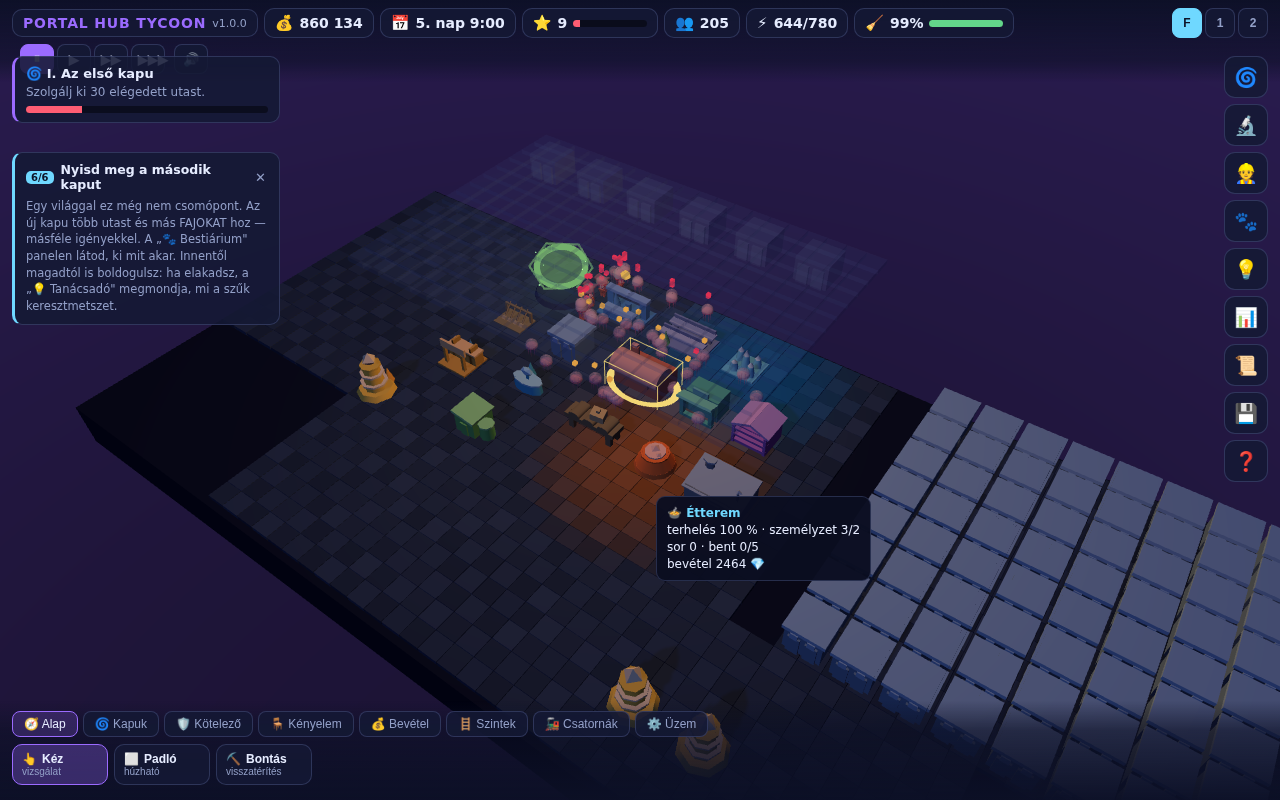
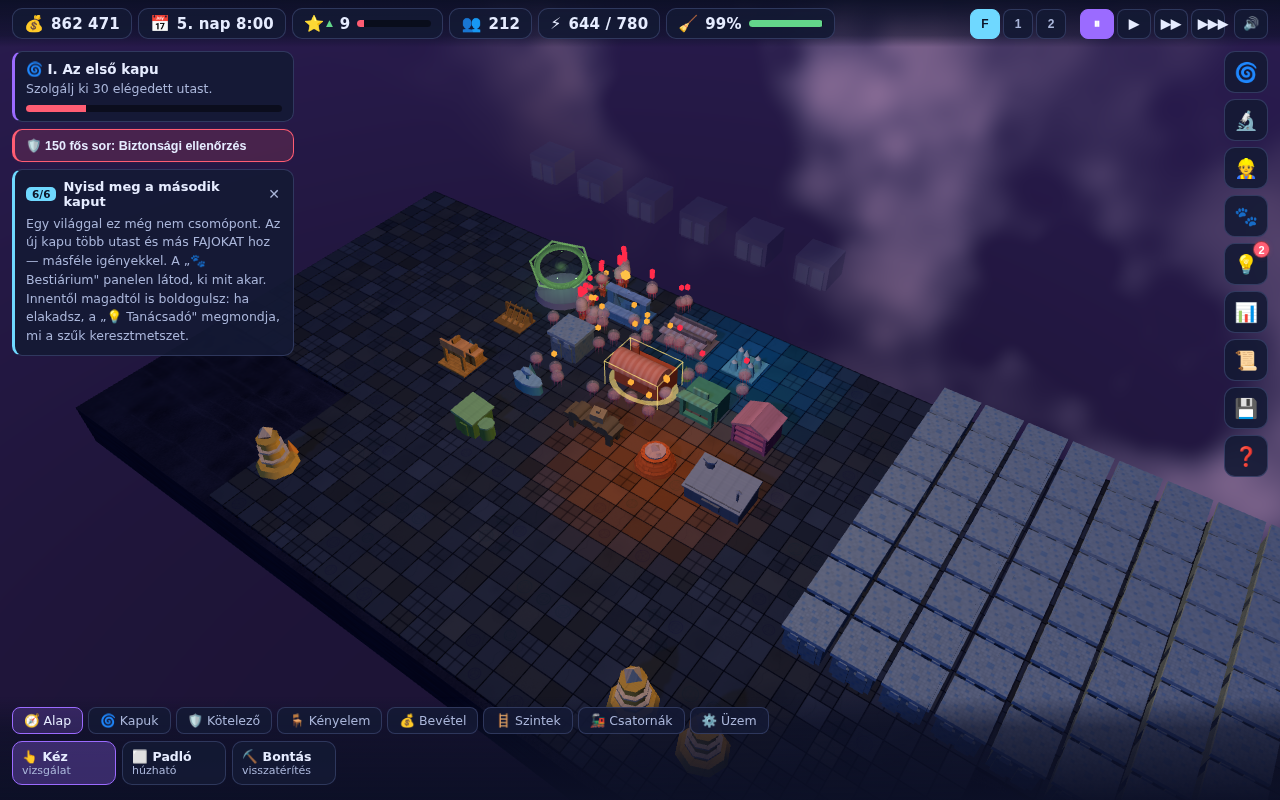
v1.1 — nagyobb pálya, textúrák, SFX- és UI-hangolás, QA-kör
Három párhuzamos sáv, egy kör, diszjunkt fájlkészleten. MIND A HÉT KAPU
EGYÜTT ZÖLD (det 11 · mértan 6 · hang 6 · böngésző 9 · látvány 6 · textúra 8
· kiadás 7), a `VERZIO` 1.0.0 → 1.1.0.

── TEXTÚRÁK ──────────────────────────────────────────────────────────────
13 procedurális textúra, canvasból, NULLA képfájl — a `dist/` bármikor
másolható marad. A padló világ-uv-t kap (`onBeforeCompile` + `instanceMatrix`),
így 8×8 KÜLÖNBÖZŐ kőlap ismétlődik; a doboz saját uv-jével mind a 6 912 cella
ugyanaz az egy csempe lett volna.

    padló mintázottsága   szomszédos képpontok eltérése 1,084 → 2,560 (2,33×)
    épületek közelről     csempe 4,02× · deszka 5,62× · fém 8,69×
    uv-fedettség          46/46 épület- és 20/20 lény-mesh érvényes
    rajzolási hívás       +32 azonos típusú textúrázott épület: 18 → 18
    készlet               13 db, 1,93 M képpont · előállítás 109 ms
    képkocka-ár           +14 % (keret: +45 %)

── HANG ──────────────────────────────────────────────────────────────────
    sztereó korreláció              1,000 (MONÓ) → 0,642
    levágott minta 24 hangnál       40 → 0
    háttér lehúzása riasztás alatt  0,3 dB → 10,2 dB
    ugyanaz a hang kétszer          0,00 % → 0,6-0,8 % eltérés

── FELÜLET: QA-KÖR ───────────────────────────────────────────────────────
3 kritikus + 4 súlyos hiba, mind javítva. A legfontosabb: EGYETLEN kattintás
egy üres padlóra megfagyasztotta a partit (hiányzó import → ReferenceError a
[…]

diff --git a/portal/src/mag/config.js b/portal/src/mag/config.js
@@ -11,7 +11,7 @@
 // az AoC-nál már megégettük magunkat azzal, hogy két helyen állt verziószám.
 
 /** A játék verziója. EZ az igazság, nem a package.json. */
-export const VERZIO = '1.0.0';
+export const VERZIO = '1.1.0';
 export const JATEK_NEV = 'PORTAL HUB TYCOON';
 
 // ── IDŐ ───────────────────────────────────────────────────────────────────

diff --git a/portal/ATADO.md b/portal/ATADO.md
@@ -1,0 +1,231 @@
+# ÁTADÓ — PORTAL HUB TYCOON · v1.1
+
+> **Ez az egyetlen fájl, amit el kell olvasnod, ha most kapcsolódsz be.**
+> A 0. és az 5. pont a lényeg. A többi akkor kell, ha hozzá is nyúlsz.
+
+| | |
+|---|---|
+| **Verzió** | `portal/src/mag/config.js` → `VERZIO` (a `package.json` verziója NEM ez) |
+| **Ág** | `claude/portal-hub-tycoon-doo7mq` |
+| **Mappa** | `portal/` — **önálló alprojekt**, saját `index.html`-lel és `vite.config.js`-szel |
+| **Kirakás** | `skynet.lospolo.hu/portal` — lásd [`KIRAKAS.md`](KIRAKAS.md) |
+| **Játék** | `npm run portal:dev` → http://localhost:5274 |
+
+⚠ **A repóban KÉT játék van.** A gyökér `src/` az AGE OF THE CRYSTALS-é, a
+`portal/` ezé. Diszjunkt fájlkészleten élnek — ha az egyiken dolgozol, a
+másikhoz ne nyúlj. A gyökér `CLAUDE.md` erről szól.
+
+---
+
+## 0. Hol tart a projekt
+
+**Kész, játszható, mérve.** Böngészőben futó 3D tycoon: dimenziókapu-állomást
+igazgatsz, ahová tíz faj érkezik, mindegyik más igénnyel és fogyó türelemmel.
+Hét fejezetes történet két visszafordíthatatlan döntéssel, utána végtelen mód
+növekvő nehézségű korszakokkal.
+
+Az ív: v0.1 motor-mag → v0.2 mentés → v0.3 emeletek → v0.4 csatornák →
+v0.5 végtelen mód → v0.6 kosz → v0.7 tanácsadó → v0.8 bevezető →
+v0.9 kiadás-ellenőrző → **v1.0** (mind a hat kapu együtt zöld) →
+**v1.1** (nagyobb pálya, textúrák, SFX-hangolás, UI-hangolás + QA-kör).
+
+### Amit a v1.1 hozott
+
+| sáv | mi |
+|---|---|
+| **pálya** | rács 64×48 → **96×72**, kezdő csarnok 22×16 → **30×22** |
+| **textúrák** | 13 procedurális textúra, canvasból, **nulla képfájl** |
+| **hang** | monóból sztereó, torlódás-védelem, ducking, ismétlődés-variáció |
+| **felület** | QA-kör: **3 kritikus + 4 súlyos** hiba javítva |
+| **kirakás** | `npm run portal:csomag` + [`KIRAKAS.md`](KIRAKAS.md) |
+
+---
+
+## 1. A LEGFONTOSABB SZABÁLY
+
+**A `src/sim/` alatt a determinizmus mindent felülír.** Nincs `Math.random`,
+`Date.now`, `performance.now`, nincs `Math.sin/cos/pow/exp/log/hypot`, nincs
+`three`/DOM, és nincs sorrendfüggő objektum-iteráció. Az `npm run portal:det`
+1. vizsgálata ezt statikusan is ellenőrzi — **ha bukik, ne a szondát írd át.**
+
+Ebből következik minden más: a mentés = **seed + parancsnapló**, a betöltés
+= újrajátszás, és ezért lesz bitre ugyanaz.
+
+**A render, a felület és a hang SOSEM ír a simbe.** Ha hatni akarnak a
+világra, parancsot adnak: `sim.parancs({ fajta: 'menet', … })`.
+
+⚠ A `Math.random` a **render/hang oldalon MEGENGEDETT** — a hang-sáv él is
+vele a hangvariációhoz. Csak a `sim/` és a `mag/` alatt tilos.
+
+---
+
+## 2. A HÉT KAPU
+
+```bash
+npm run portal:szonda      # mind egyben
+```
+
+| parancs | mit mér | vizsgálat |
+|---|---|---|
+| `portal:det` | determinizmus, működés, gazdaság, végigjátszás | 11 |
+| `portal:mertan` | 23 épülettípus, 23 különböző sziluett | 6 |
+| `portal:hang` | katalógus, jelszint, **sztereó/torlódás/dinamika** | 6 |
+| `portal:bongeszo` | elindul-e, működik-e, ment-e bitre azonosan | 9 |
+| `portal:latvany` | napszak, szellemszint, részecskekeret | 6 |
+| `portal:textura` | mintázottság, uv, textúra-készlet, képkocka-ár | 8 |
+| `portal:kiadas` | verzió, nyomok, külső hivatkozás, build | 7 |
+
+⚠ **A determinizmus-kapu NEM működés-kapu.** A semmittevés is tökéletesen
+reprodukálható: a v0.3 első változatában mind a hat vizsgálat zöld volt,
+miközben 400 munkásból 285 beragadt. Ezért van minden szondában legalább egy
+olyan szám, ami azt méri, hogy az alrendszer **csinál** is valamit. Új
+alrendszernél mindig kérdezd meg: *mi az a szám, ami ezt elárulja?*
+
+⚠ **Új parancsfajta → vedd bele a `tools/forgatokonyv.mjs`-be.** A szonda
+forgatókönyvekből dolgozik, magától nem találja meg az új kódot. A `v01`
+forgatókönyv viszont **sosem változhat** — az a motor-mag regresszió-őre.
+
+---
+
+## 3. HOL DOLGOZOL — ez eldönti, mit tudsz ellenőrizni
+
+| | felhő | otthoni iMac |
+|---|---|---|
+| kód, `vite build`, mind a 7 szonda | ✅ | ✅ |
+| **`npm run portal:fps`** | ❌ nincs GPU | ✅ |
+
+A felhőben a Chrome szoftveres raszterizálóra (SwiftShader) esik. **Az ott
+mért FPS semmit nem jelent** — soha ne jelents felhőben mért FPS-t
+eredményként.
+
+⚠ **A képkocka-idő és a tick-idő két futás között sem összehasonlítható**: a
+felhő-gép osztott CPU-n fut. A/B-t **egy munkameneten belül** mérj. És ahogy
+a textúra-sáv megtanulta: **fordított sorrendben is** — a fix sorrendű A/B-jük
+ugyanarra a kódra egyszer +17 %-ot, egyszer +73 %-ot mutatott, mert a gép
+terhelése közben csökkent.
+
+---
+
+## 4. A KÓD SZERKEZETE
+
+```
+  src/mag/     config, determinizmus-biztos matek, seedelt véletlen
+  src/sim/     A VILÁG. Nincs benne three, DOM, Math.random, Date.now.
+  src/render/  three.js. Csak OLVASSA a simet.
+  src/ui/      DOM. Csak OLVASSA a simet.
+  src/audio/   WebAudio. Csak OLVASSA a simet.
+  src/fo.js    huzalozás + fix lépésközű hurok
+```
+
+- Magyar azonosítók és kommentek. A fejléc-komment a **MIÉRT**-et magyarázza.
+- Nulla per-frame allokáció a render `frissit()`-jében és a sim `lep()`-jében.
+- Új réteg → új fájl. A meglévőt ne írd át, ha bővítés is elég.
+- Több agenttel dolgozunk: **diszjunkt fájlkészlet**, mindenki a saját sávjában.
+
+---
+
+## 5. AMI NYITOTT — ezt vidd tovább
+
+Sorrendben. Az első kettő **adósság**, nem ötlet: olyan állítás, amit ma nem
+tudunk méréssel alátámasztani.
+
+### 5.1 ⚠ FPS valódi GPU-n — EZ A LEGFONTOSABB
+
+A render a v0.1 óta gyökeresen megváltozott (típusonkénti mértan, három szint,
+portálfények, napszak, részecskék, **és most 13 textúra**), és azóta
+**egyszer sem futott rá `npm run portal:fps` GPU-s gépen.**
+
+Amit tudunk: a textúrák **+15 %** képkocka-időt kérnek szoftveres
+raszterizálón (271 vs 236 ms, A/B egy futáson belül). Hogy ez valódi GPU-n
+mennyi, azt **nem tudjuk** — és a szoftveres szám nem is arányos vele.
+
+```bash
+export AOC_CHROME="/Applications/Google Chrome.app/Contents/MacOS/Google Chrome"
+npm run portal:fps
+```
+
+### 5.2 ⚠ EMBER MÉG NEM JÁTSZOTTA VÉGIG
+
+A gépi játékos sokszor végigvitte a történetet, de ember még nem. A tempó, a
+szövegek érthetősége és a bevezető haszna **csak így ítélhető meg**. Botot nem
+lehet megkérdezni, hogy unatkozott-e. Ugyanez a hangra: **ember még nem
+hallotta.**
+
+### 5.3 A legnagyobb nyitott TERVEZÉSI kérdés: mindenki dühös
+
+**Minden győztes stratégia 66–80 %-os dühös aránnyal fejezi be.** A játék ma
+úgy nyerhető meg, hogy az állomás vendégeinek kétharmada dühösen távozik. Ez
+nem szám-hiba (a győzelem feltételét teljesítik), de szemben megy a
+„varázslatos, nyüzsgő átszállóállomás" ígéretével.
+
+**A nagyobb pálya NEM oldotta meg** — lemértük: 64×48-ról 96×72-re nőtt a
+rács, a dühös arány nem mozdult. Tehát nem helyhiány, hanem
+**kiszolgáló-kapacitás**: a tömeg a SORBAN állókból keletkezik, és több padló
+nem rövidít sort.
+
+Az egyetlen kivétel a `csatornas` stratégia: **92,3 hírnév, KEVESEBB utassal.**
+Ez a nyom, amin el lehet indulni.
+
+### 5.4 Kisebb, konkrét tételek
+
+- **Hosszú távú stabilitás.** A leghosszabb mért futás 80 játéknap. Hogy egy
+  200 napos parti mit csinál a memóriával és a mentés méretével, nem tudjuk.
+- **`ConvolverNode` CPU-ára** nincs mérve (hang-sáv, GPU-s gép kell hozzá).
+- **A `bongeszo_szonda.mjs`-ből hiányzik a HMR-kilövés.** A `latvany` és a
+  `textura` szondában van; enélkül párhuzamos agent-munka közben a szonda
+  véletlenszerűen elszáll („Execution context was destroyed").
+- **`vezerlo.kozpontba()`** — „vissza a csarnokhoz" gomb. Pontos kód:
+  `qa/QA_KOR.md` 6. szakasz. Ma szándékosan nincs.
+- **Ha a képkocka tartósan 250 ms fölött van**, a játékos ma nem tud róla —
+  csak azt látja, hogy lassú. A `fo.js` `dt`-korlátja miatt a világ
+  lassítottban megy. Egy egyszeri üzenet őszintébb, mint a néma csúszás.
+- **Mobil / érintőképernyő.** A vezérlés egérre készült.
+- **Negyedik-ötödik szint**, emeletenként eltérő bérleti díj.
+- **Több nyelv.** Ma minden magyar, a kód is.
+
+---
+
+## 6. AMIT A MÉRÉS TANÍTOTT — olvasd el, mielőtt hangolsz
+
+Ezek nem anekdoták; mindegyik konkrét hibába került, és mindegyik újra
+megtörténhet.
+
+1. **Egy jól diagnosztizált hiba javaslata is túllőhet.** A hírnév-gödörre az
+   egyensúly-jelentés 60 → 300-at javasolt, mérésekkel alátámasztva. Beépítve
+   **elvitte a nyerő stratégiák kétharmadát.** 150 lett belőle — csak az
+   újramérés mutatta meg.
+2. **A mérőeszköz is elromlik, és akkor JÁTÉK-hibának látszik.** A `berbeado`
+   bot 8/8-ról 0/8-ra esett; nem a játék romlott el, hanem a bot feltétele a
+   sim feltételének MÁSOLATA volt, és a sim szigorodott.
+3. **Ne hangold a játékot a teszthez.** A végigjátszás-forgatókönyv a
+   hírnév-szám söprésekor NEM MONOTON volt (100 ✗ · 150 ✗ · 200 ✓ · 250 ✗ ·
+   300 ✓). Kísértés lett volna azt a számot választani, amelyiknél zöld.
+4. **A képpont-mérés olyat fog meg, amit a kód nem árul el.** A csillagok
+   hónapokig „ott voltak", és közben SÖTÉTÍTETTEK (a köd elnyelte őket). Az
+   ég-shaderből hiányzott a `colorspace_fragment`.
+5. **A szonda nem helyettesíti a végigkattintást.** A QA-kör kritikus hibája
+   — egy hiányzó import, ami EGYETLEN kattintástól megfagyasztotta a partit —
+   szondával nem volt megfogható: a cellanézet csak vászonra kattintással jön elő.
+6. **A személyzet nélküli épület rosszabb, mint a semmi**, és ez a másik
+   irányból is igaz: a bot elbocsátás-logikája MŰKÖDŐ épületeket fosztott meg
+   a személyzetüktől, és 4 zöldből 3 lett.
+
+---
+
+## 7. Ha most ülsz le hozzá — mit csinálj
+
+```bash
+npm ci
+npm run portal:dev        # játszd meg egy órát, ez hiányzik a legjobban
+npm run portal:szonda     # mind a hét kapu (~15 perc)
+```
+
+Ha az iMac-en vagy, **az 5.1 az első dolog**: `npm run portal:fps`. Az az
+egyetlen tétel, ami miatt a v1.1-et „részben mért" állapotban kell tartani.
+
+Kirakás: `npm run portal:csomag`, aztán [`KIRAKAS.md`](KIRAKAS.md).
+
+**Dokumentáció:** [`README.md`](README.md) (játékos + fejlesztő) ·
+[`PORTAL_TERV.md`](PORTAL_TERV.md) (terv és állapot) ·
+[`qa/`](qa/) (mérési jegyzőkönyvek: `V1.0_EREDMENY.md`, `EGYENSULY.md`,
+`HANG.md`, `QA_KOR.md`)

diff --git a/portal/PORTAL_TERV.md b/portal/PORTAL_TERV.md
@@ -19,12 +19,16 @@ oszt meg:
 ```bash
 npm run portal:dev         # fejlesztői kiszolgáló (5274)
 npm run portal:build       # dist/
-npm run portal:det         # determinizmus-szonda — EZ A FŐ KAPU (9 vizsgálat)
+npm run portal:det         # determinizmus — EZ A FŐ KAPU (11 vizsgálat)
 npm run portal:mertan      # a 3D-mértan kerete és sziluett-ujjlenyomata
-npm run portal:hang        # hangrendszer (katalógus + böngésző + jelszint)
+npm run portal:hang        # hangrendszer (sztereó, torlódás, dinamika)
 npm run portal:bongeszo    # böngésző-szonda (indul-e, működik-e, ment-e)
+npm run portal:latvany     # napszak, szellemszint, részecskekeret
+npm run portal:textura     # textúrák: mintázottság, uv, képkocka-ár
+npm run portal:kiadas      # kiadhatóság
 npm run portal:kep 16000   # képernyőkép egy felépített állomásról
-npm run portal:szonda      # mind egyben
+npm run portal:szonda      # mind a hét egyben
+npm run portal:csomag      # kirakási csomag (lásd KIRAKAS.md)
 node portal/tools/egyensuly.mjs 60000 8   # egyensúly-mérés (percek)
 ```
 
@@ -37,6 +41,7 @@ node portal/tools/egyensuly.mjs 60000 8   # egyensúly-mérés (percek)
   src/sim/     A VILÁG. Nincs benne three, DOM, Math.random, Date.now.
   src/render/  three.js. Csak OLVASSA a simet.
   src/ui/      DOM. Csak OLVASSA a simet.
+  src/audio/   WebAudio. Csak OLVASSA a simet.
   src/fo.js    huzalozás + fix lépésközű hurok
 ```
 
@@ -54,10 +59,10 @@ következménye van, és mindhármat használjuk:
 
 ---
 
-## 3. Ami KÉSZ (v1.0)
+## 3. Ami KÉSZ (v1.1)
 
 ### Szimuláció
-- **Rács** 64×48, padló / épület / hő- / hidegzóna / tömeg rétegekkel.
+- **Rács** 96×72×3, padló / épület / hő- / hidegzóna / tömeg rétegekkel.
 - **Útkeresés**: épületenkénti BFS-távolságmező, gyorsítótárazva a rács
   verziójához kötve, tickenként korlátozott újraszámolással. Utasonként 8
   tömb-olvasás, nem A*.
@@ -79,9 +84,12 @@ következménye van, és mindhármat használjuk:
   csőddel.
 
 ### Látvány
-- Példányosított padló (sakktábla + zónaszínezés), épületek, utasok
-  (szilárd/áttetsző), dolgozók, állapotjelzők — **12 rajzolási hívás** az egész
-  jelenetre, 1200 lénnyel is.
+- Példányosított padló, épületek, utasok (szilárd/áttetsző), dolgozók,
+  állapotjelzők — **21 rajzolási hívás** az egész jelenetre, 1400 lénnyel és
+  teli részecskekerettel is.
+- **13 procedurális textúra**, canvasból, nulla képfájl: kőlap, kváder, vakolat,
+  fém, deszka, kristály, üveg, ponyva, csempe, szikla, rúnaszalag, örvény,
+  lénybőr. A padló világ-uv-t kap, hogy 8×8 KÜLÖNBÖZŐ kőlap ismétlődjön.
 - Forgó, instabilitással vörösödő portálgyűrűk, saját fénnyel.
 - Színátmenetes ég + csillagok, alaplemez a lebegő sziget alatt.
 - A hangulat LÁTSZIK: a lény színe a vörös felé csúszik, ha rossz a kedve.
@@ -105,7 +113,7 @@ következménye van, és mindhármat használjuk:
 - **Egyedi sziluett** minden épülettípusnak és minden fajnak.
 
 ### v0.3 — a többszintes állomás
-- A rács három dimenziós (64×48×3). A `z` a világ állapota, nem nézet.
+- A rács három dimenziós. A `z` a világ állapota, nem nézet.
 - **Mozgólépcső** (olcsó, lassú) és **teleport lift** (drága, azonnali) mint
   átjáró; a szintváltás IDŐBE kerül.
 - Alátámasztás: emeleti padló csak padló fölé. Az átjáró cellája JÁRHATÓ.
@@ -142,7 +150,7 @@ következménye van, és mindhármat használjuk:
 - **Nehézségi fokozatok** (könnyű / normál / kemény) szorzókkal. A fokozat a
   világ állapota: a mentés viszi, az ellenőrző-összeg tartalmazza.
 - **Bérbeadás**: a bolt, étterem, könyvesbolt és VIP kiadható — nincs
-  személyzeti gond, napi fix díj, cserébe a bevétel 42 %-a.
+  személyzeti gond, napi fix díj, cserébe a bevétel 40 %-a (`BERLET_RESZESEDES = 0,60` marad nálunk).
 - **Érkezési csatornák**: Vasútállomás, Léghajó-kikötő (csak EMELETEN!),
   Űrkapu. Nincs instabilitásuk és nem fogyasztanak kristályt — ez a
   „nyugodt" bevételi ág a kapuk mellett.
@@ -158,11 +166,12 @@ következménye van, és mindhármat használjuk:
 | hang-szonda | üres állomás 0,028 → nyüzsgő+instabil 0,427 jelszint |
 | böngésző-szonda | 9 vizsgálat zöld, a betöltés bitre azonos |
 | látvány-szonda | napszak, áttetsző szintek, zárt részecskekeret |
+| textúra-szonda | 13 procedurális textúra, +14 % képkocka-ár, 0 képfájl |
 | kiadás-ellenőrző | 7 vizsgálat zöld |
 | egyensúly (80 végigjátszás) | **6 stratégia nyer 8/8-at**, 4 egyszer sem, 0 csőd |
 | ms/tick 1200 utasnál | **0,137 ms** (node, felhő) |
-| rajzolási hívás | 22 — 1000+ lénnyel ÉS teli részecskekerettel |
-| build | 878 kB / 243 kB gzip (ebből a three.js a nagyobb rész) |
+| rajzolási hívás | 21 — 1400 lénnyel ÉS teli részecskekerettel |
+| build | 910 kB / 255 kB gzip (ebből a three.js a nagyobb rész) |
 
 A részletes egyensúly-mérés (6 stratégia × több seed × 50 játéknap) a
 [`qa/EGYENSULY.md`](qa/EGYENSULY.md)-ben van.

diff --git a/portal/README.md b/portal/README.md
@@ -89,11 +89,13 @@ az, hogy a felület bármikor átírható anélkül, hogy a gazdaság elcsúszna
 ```bash
 npm run portal:det       # determinizmus + működés + végigjátszás (11 vizsgálat)
 npm run portal:mertan    # 3D-mértan: keret és sziluett-ujjlenyomat
-npm run portal:hang      # hangrendszer: katalógus, jelszint, böngésző
+npm run portal:hang      # hangrendszer: sztereó, torlódás, dinamika, jelszint
 npm run portal:bongeszo  # elindul-e, működik-e, ment-e
 npm run portal:latvany   # látvány: napszak, áttetsző szintek, részecskék
+npm run portal:textura   # textúrák: mintázottság, uv, képkocka-ár
 npm run portal:kiadas    # kiadhatóság: verzió, nyomok, külső hivatkozás
-npm run portal:szonda    # mind egyben
+npm run portal:szonda    # mind a hét egyben
+npm run portal:csomag    # kirakási csomag SkyNetre (lásd KIRAKAS.md)
 node portal/tools/egyensuly.mjs 60000 8   # egyensúly-mérés (percek)
 ```
 
@@ -101,5 +103,9 @@ node portal/tools/egyensuly.mjs 60000 8   # egyensúly-mérés (percek)
 esik). Az `npm run portal:kep` képei geometriát és színt mutatnak, sebességet
 nem. Az FPS-mérés valódi GPU-s gép dolga.
 
-Részletek: [`PORTAL_TERV.md`](PORTAL_TERV.md) ·
-mérések: [`qa/`](qa/) · egyensúly: [`qa/EGYENSULY.md`](qa/EGYENSULY.md)
+**Ha most kapcsolódsz be: [`ATADO.md`](ATADO.md).** Az az egyetlen fájl,
+amit el kell olvasni.
+
+Részletek: [`PORTAL_TERV.md`](PORTAL_TERV.md) · kirakás:
+[`KIRAKAS.md`](KIRAKAS.md) · mérések: [`qa/`](qa/) —
+[egyensúly](qa/EGYENSULY.md) · [hang](qa/HANG.md) · [QA-kör](qa/QA_KOR.md)
